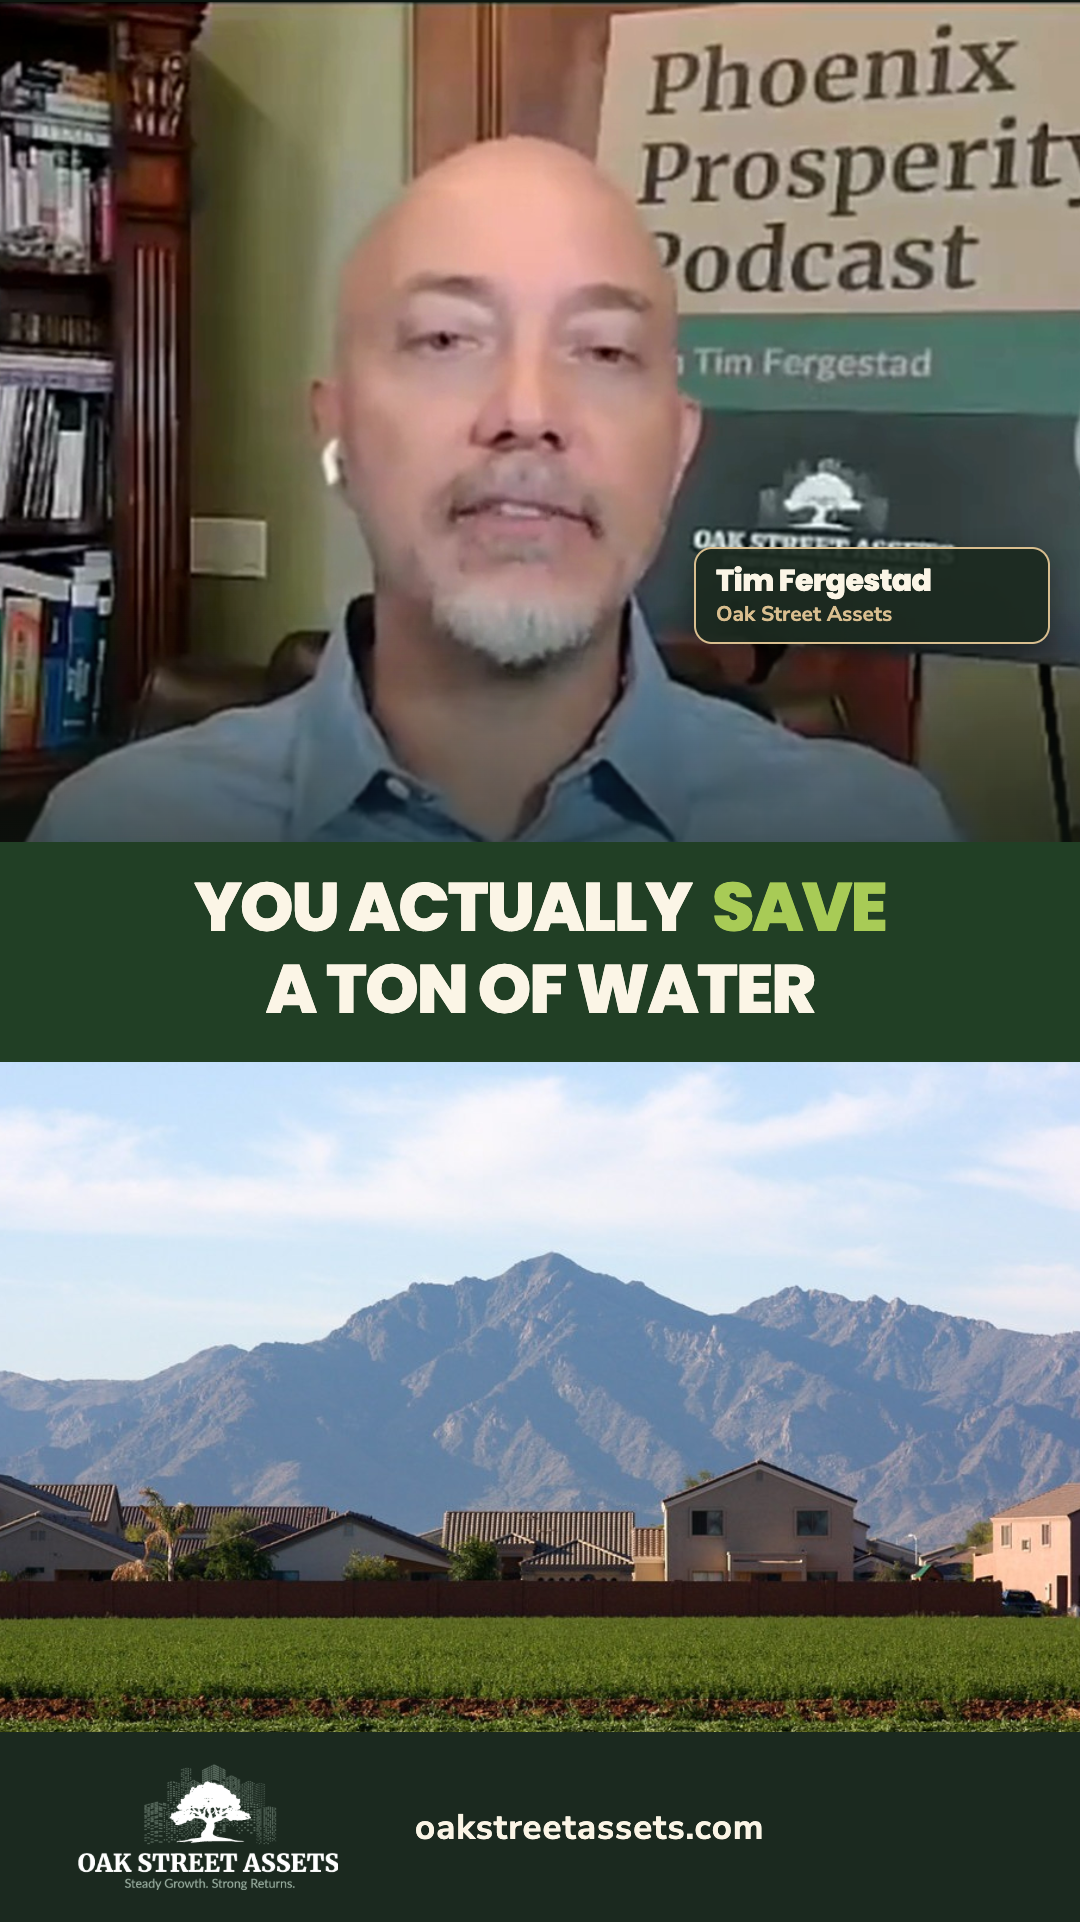
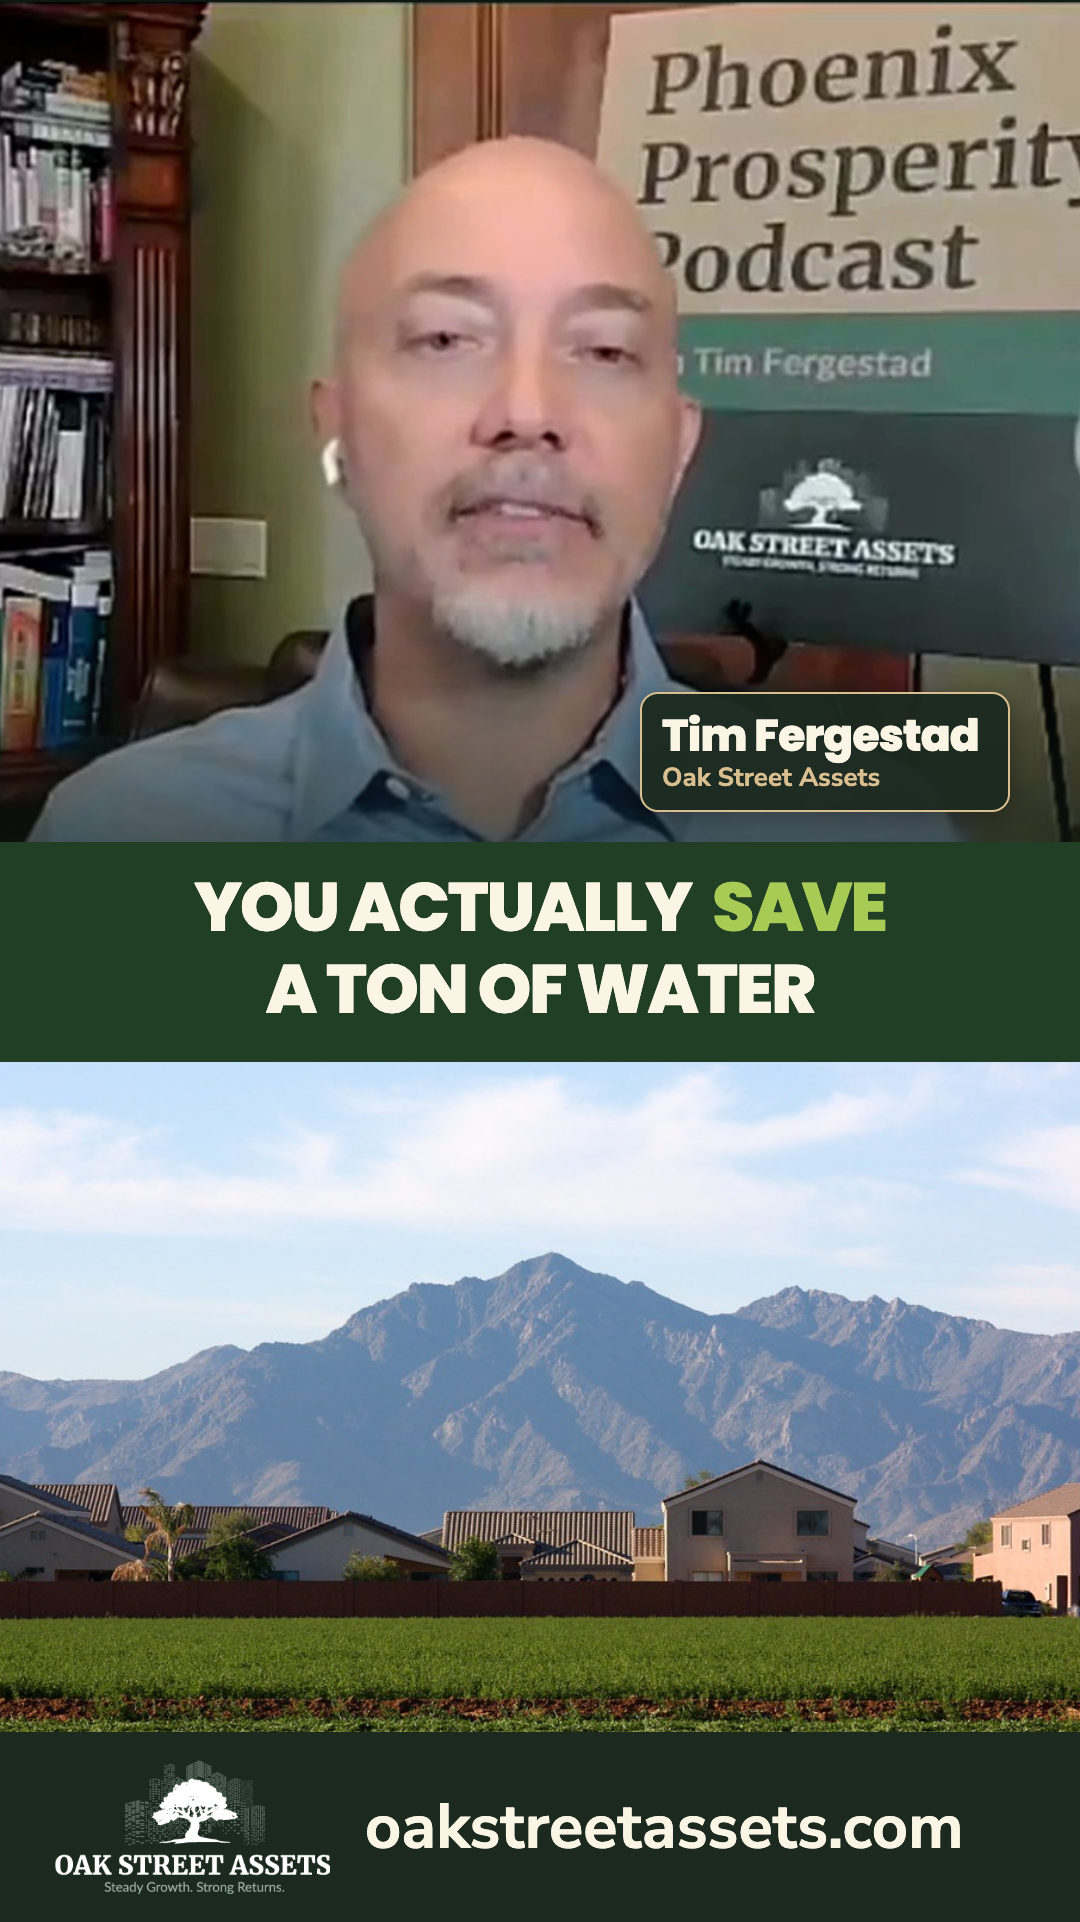
design(outreach:clipping-viability): enlarge name and website labels

Changed region(s): [[0.5806, 0.281, 0.9778, 0.437], [0.3361, 0.9365, 0.8861, 0.9677], [0.0611, 0.9053, 0.3056, 0.999]]

diff --git a/public/design-reviews/phoenix-prosperity-layout-sketch-20260926/index.html b/public/design-reviews/phoenix-prosperity-layout-sketch-20260926/index.html
@@ -18,17 +18,17 @@
     .speaker { position: absolute; top: 0; left: 0; width: 1080px; height: 840px; overflow: hidden; background: #1b291f; }
     .speaker img { position: absolute; width: 1282px; height: 2279px; left: -101px; top: -297px; max-width: none; }
     .speaker::after { content: ""; position: absolute; inset: 600px 0 0; background: linear-gradient(transparent, #101a1399); }
-    .name { position: absolute; right: 30px; top: 545px; z-index: 2; border: 2px solid #d9be8f; border-radius: 18px; background: #1b291feb; width: 356px; padding: 15px 20px; box-shadow: 0 8px 26px #0005; }
-    .name strong { display: block; color: #fbf5e6; font: 800 30px/1.15 Poppins, sans-serif; letter-spacing: -.6px; white-space: nowrap; }
-    .name span { display: block; color: #d9be8f; font: 700 21px/1.25 Nunito, sans-serif; margin-top: 2px; }
+    .name { position: absolute; right: 70px; top: 690px; z-index: 2; border: 2px solid #d9be8f; border-radius: 18px; background: #1b291ff2; width: 370px; padding: 17px 20px; box-shadow: 0 8px 26px #0005; }
+    .name strong { display: block; color: #fbf5e6; font: 800 44px/1.12 Poppins, sans-serif; letter-spacing: -.8px; white-space: nowrap; }
+    .name span { display: block; color: #d9be8f; font: 700 26px/1.2 Nunito, sans-serif; margin-top: 2px; }
     .caption { position: absolute; top: 840px; left: 0; width: 1080px; height: 220px; background: #213f25; display: flex; align-items: center; justify-content: center; text-align: center; padding: 18px 50px 25px; }
     .caption p { margin: 0; color: #fbf5e6; font: 800 68px/1.2 Poppins, sans-serif; letter-spacing: -2px; text-transform: uppercase; }
     .caption em { font-style: normal; color: #a8cb56; margin-left: .15em; }
     .support { position: absolute; top: 1060px; left: 0; width: 1080px; height: 670px; overflow: hidden; background: #1b291f; }
     .support img { width: 100%; height: 100%; object-fit: cover; object-position: center 54%; transform: scale(1.13); transform-origin: center 67%; }
-    .footer { position: absolute; top: 1730px; left: 0; width: 1080px; height: 190px; background: #1b291f; display: flex; align-items: center; padding: 0 78px; gap: 77px; }
-    .footer img { width: 260px; height: auto; flex: none; }
-    .footer .url { color: #fbf5e6; font: 700 35px/1 Nunito, sans-serif; white-space: nowrap; letter-spacing: 1px; }
+    .footer { position: absolute; top: 1730px; left: 0; width: 1080px; height: 190px; background: #1b291f; display: flex; align-items: center; padding: 0 55px; gap: 35px; }
+    .footer img { width: 275px; height: auto; flex: none; }
+    .footer .url { color: #fbf5e6; font: 700 63px/1 Nunito, sans-serif; white-space: nowrap; letter-spacing: .2px; }
     .notes { max-width: 540px; margin: 20px auto 0; color: #adbcad; font: 700 13px/1.5 Nunito, sans-serif; text-align: left; }
     .notes a { color: #d9be8f; }
   </style>
@@ -38,7 +38,7 @@
     <h1>Layout sketch applied to the Oak Street clip</h1>
     <p class="intro">One design still for structure review. The video edit has not changed.</p>
     <div class="viewport" id="viewport">
-      <div class="post" id="post" role="img" aria-label="Vertical clipping layout: Tim at top, name beside him, captions below, farmland and homes photo, Oak Street footer">
+      <div class="post" id="post" role="img" aria-label="Vertical clipping layout: Tim at top, large name on his lower right, captions below, farmland and homes photo, large Oak Street website in footer">
         <div class="speaker"><img src="speaker-source.png" alt=""></div>
         <div class="name"><strong>Tim Fergestad</strong><span>Oak Street Assets</span></div>
         <div class="caption"><p>You actually <em>save</em><br>a ton of water</p></div>

diff --git a/public/design-reviews/phoenix-prosperity-layout-sketch-20260926/option-2.html b/public/design-reviews/phoenix-prosperity-layout-sketch-20260926/option-2.html
@@ -19,8 +19,8 @@
     .speaker img { position: absolute; width: 1282px; height: 2279px; left: -101px; top: -297px; max-width: none; }
     .speaker::after { content: ""; position: absolute; inset: 570px 0 0; background: linear-gradient(transparent, #101a1377); }
     .name { position: absolute; left: 38px; top: 130px; z-index: 2; border: 2px solid #d9be8f; border-radius: 18px; background: #1b291feb; width: 410px; padding: 16px 22px; box-shadow: 0 8px 26px #0005; }
-    .name strong { display: block; color: #fbf5e6; font: 800 35px/1.15 Poppins, sans-serif; letter-spacing: -.6px; white-space: nowrap; }
-    .name span { display: block; color: #d9be8f; font: 700 21px/1.25 Nunito, sans-serif; margin-top: 2px; }
+    .name strong { display: block; color: #fbf5e6; font: 800 44px/1.12 Poppins, sans-serif; letter-spacing: -.8px; white-space: nowrap; }
+    .name span { display: block; color: #d9be8f; font: 700 26px/1.2 Nunito, sans-serif; margin-top: 2px; }
     .caption { position: absolute; top: 760px; left: 0; width: 1080px; height: 210px; background: #213f25; display: flex; align-items: center; justify-content: center; text-align: center; padding: 18px 50px 25px; }
     .caption p { margin: 0; color: #fbf5e6; font: 800 68px/1.2 Poppins, sans-serif; letter-spacing: -2px; text-transform: uppercase; }
     .caption em { font-style: normal; color: #a8cb56; margin-left: .15em; }
@@ -31,7 +31,7 @@
     .footer .mark img { width: 115px; height: 115px; object-fit: contain; }
     .footer .brand { display: flex; flex-direction: column; gap: 10px; }
     .footer .brand strong { color: #fbf5e6; font: 800 49px/1.05 Poppins, sans-serif; white-space: nowrap; letter-spacing: -1px; }
-    .footer .url { color: #d9be8f; font: 700 32px/1 Nunito, sans-serif; white-space: nowrap; letter-spacing: 1px; }
+    .footer .url { color: #d9be8f; font: 700 51px/1 Nunito, sans-serif; white-space: nowrap; letter-spacing: .2px; }
     .notes { max-width: 540px; margin: 20px auto 0; color: #adbcad; font: 700 13px/1.5 Nunito, sans-serif; text-align: left; }
     .notes a { color: #d9be8f; }
   </style>

diff --git a/public/design-reviews/phoenix-prosperity-layout-sketch-20260926/compare.html b/public/design-reviews/phoenix-prosperity-layout-sketch-20260926/compare.html
@@ -29,8 +29,8 @@
     <p class="intro">Swipe between the options on your phone. Only the layout changes.</p>
     <div class="tabs"><button type="button" onclick="show(0)">Option 1</button><button type="button" onclick="show(1)">Option 2</button></div>
     <div class="track" id="track">
-      <figure id="first"><img src="layout-still.png" alt="Option 1: Tim's name next to his face, captions, farmland photo, small footer"><figcaption><strong>Option 1</strong>Name beside Tim; smaller footer.</figcaption></figure>
-      <figure id="second"><img src="option-2-still.png" alt="Option 2: Tim's name at upper left, captions, farmland photo, larger branding footer"><figcaption><strong>Option 2</strong>Name upper left; stronger branding footer.</figcaption></figure>
+      <figure id="first"><img src="layout-still.png" alt="Option 1: Tim's large name on his lower right, captions, farmland photo, and large website in a slim footer"><figcaption><strong>Option 1</strong>Name lower right; slim footer with a large website.</figcaption></figure>
+      <figure id="second"><img src="option-2-still.png" alt="Option 2: Tim's large name at upper left, captions, farmland photo, and larger branding footer"><figcaption><strong>Option 2</strong>Name upper left; larger branding footer.</figcaption></figure>
     </div>
     <p class="credit">Static design previews. The video has not changed. Photo: Kevin Dooley, <a href="https://creativecommons.org/licenses/by/2.0/">CC BY 2.0</a>, cropped.</p>
   </main>
